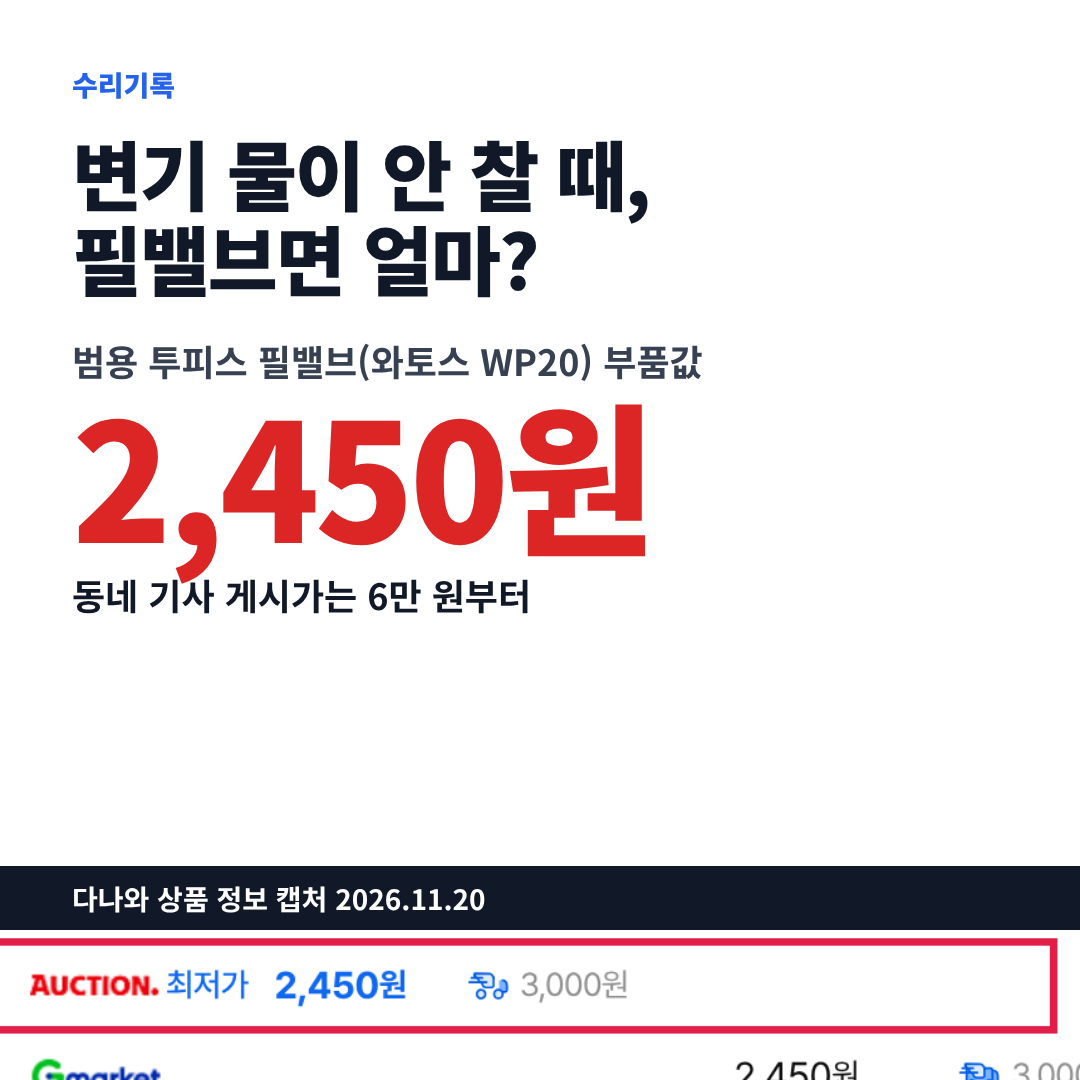
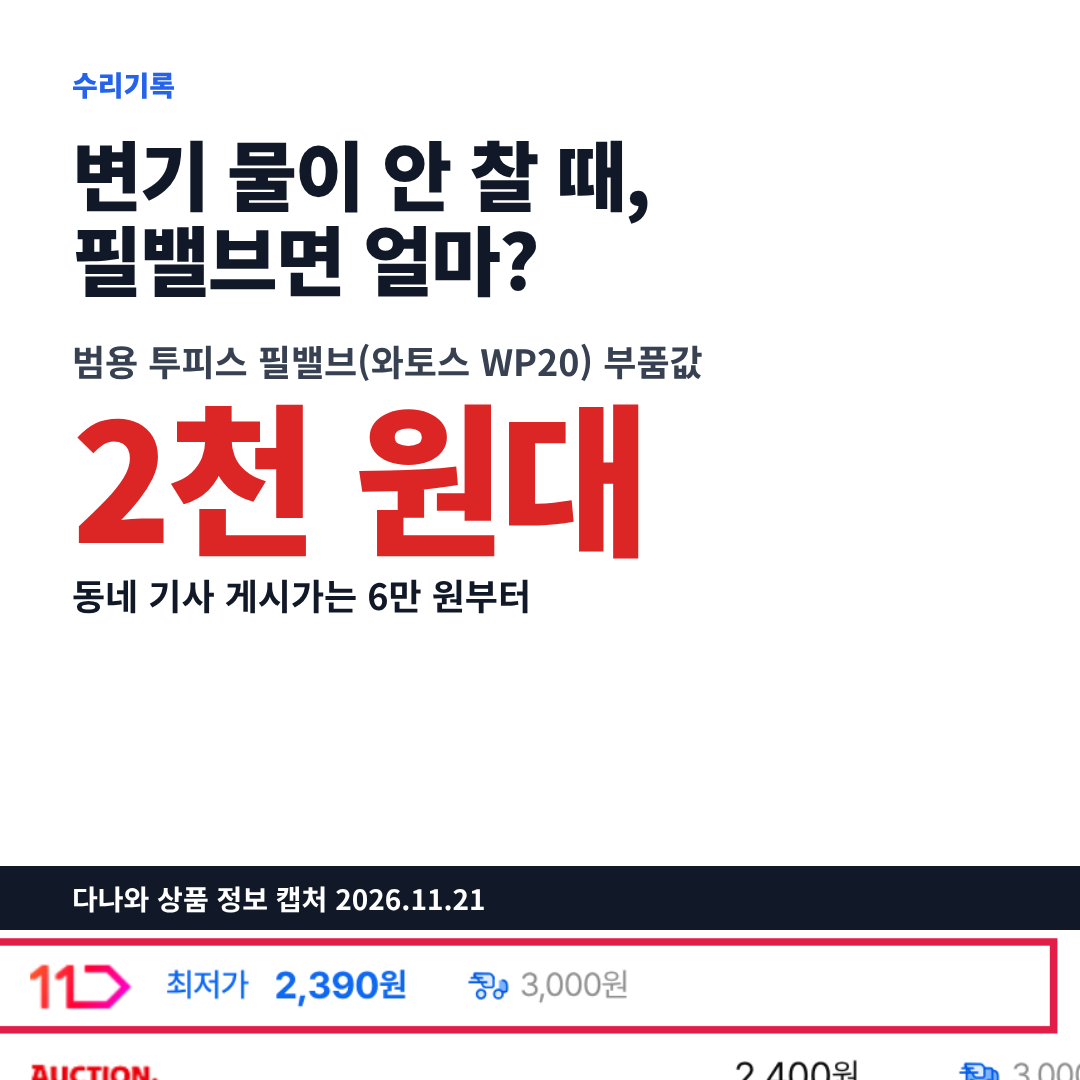
blog 05: WP20 price 2,390원 (title shows 2천 원대), KCA case capture, rows re-verified
Claude-Session: https://claude.ai/code/session_01S8aYJMqtEgMRbXyeMmbqGH

diff --git a/docs/blog/naver/05-toilet-fill-valve.md b/docs/blog/naver/05-toilet-fill-valve.md
@@ -1,12 +1,12 @@
 ---
 slug: 2026-12-toilet-fill-valve
 kind: guide
-title: 변기 물이 안 차요? 필밸브면 직접 2,450원부터, 기사는 6만 원부터
+title: 변기 물이 안 차요? 필밸브면 직접 2천 원대부터, 기사는 6만 원부터
 demand: 투피스·원피스 양변기 물탱크에 물이 안 차거나 늦게 차는 집의 거주자가 단수·동파·앵글밸브 문제인지 필밸브(볼탑) 고장인지 가르고, 우리 집 변기 브랜드에 맞는 부품과 값, 직접 바꿀지 제조사 AS나 동네 기사를 부를지, 세입자라면 누가 내는지 판단하려고 '변기 물이 안 차요'나 '변기 필밸브 교체'를 검색할 때 이 글을 읽습니다.
 reader: 투피스·원피스 양변기 물탱크에 물이 안 차거나 늦게 차는 집의 거주자. 대림바스·계림·이누스·아메리칸스탠다드·한샘 변기를 쓰는 아파트·빌라·원룸의 소유자와 월세·전세 세입자 모두
 need: 원인이 단수·동파·앵글밸브인지 필밸브인지 가르고, 브랜드별로 맞는 부품과 값, 직접 교체와 제조사 AS·동네 기사 중 무엇이 나은지, 집주인 부담 여부를 판단
 urgency: 높음 — 물이 안 차면 변기를 쓸 수 없고 12월부터 동파가 늘어남(서울 2025~26 겨울 수도계량기 동파 2,754건, 서울시 2026-11-15). 반대로 물이 계속 차면 수도요금이 오름
-scale: 네이버 월간 검색량(PC/모바일, 2026-11-20): 변기물이안차요 470/5,920, 변기필밸브 770/4,170, 변기수리 290/2,610, 변기필밸브교체 260/1,750, 변기물소리 40/870, 변기물안참 50/540, 변기볼탑 160/530, 대림변기필밸브 40/330, 변기물이계속차요 30/300, 변기물이늦게차요 20/250, 변기필밸브교체비용 30/230, 변기물탱크물이안차요 10/200 · 묶음어 변기부속품 1,710/11,000 · 집수리 검색어 23개 중 '변기물이안차요' 5위(docs/research/data/volumes/2026-12-toilet-fill-valve_2026-11-20.json) · 다나와 필밸브 리뷰 수: 와토스 WP20 2,555건, WP21 669건, 대림바스 투피스 볼탑 289건(2026-11-20) · 이누스 고객센터 '양변기 모델명은 어떻게 확인하나요' 조회 3,679회(2026-11-20, 조회할 때마다 늘어나 본문에는 쓰지 않음), '물탱크에 물이 채워지지 않는 경우' 조회 1,918회(2026-11-20)
+scale: 네이버 월간 검색량(PC/모바일, 2026-11-20): 변기물이안차요 470/5,920, 변기필밸브 770/4,170, 변기수리 290/2,610, 변기필밸브교체 260/1,750, 변기물소리 40/870, 변기물안참 50/540, 변기볼탑 160/530, 대림변기필밸브 40/330, 변기물이계속차요 30/300, 변기물이늦게차요 20/250, 변기필밸브교체비용 30/230, 변기물탱크물이안차요 10/200 · 묶음어 변기부속품 1,710/11,000 · 집수리 검색어 23개 중 '변기물이안차요' 5위(docs/research/data/volumes/2026-12-toilet-fill-valve_2026-11-20.json) · 다나와 필밸브 리뷰 수: 와토스 WP20 2,556건, WP21 669건, 대림바스 투피스 볼탑 289건(2026-11-20) · 이누스 고객센터 '양변기 모델명은 어떻게 확인하나요' 조회 3,679회(2026-11-20, 조회할 때마다 늘어나 본문에는 쓰지 않음), '물탱크에 물이 채워지지 않는 경우' 조회 1,918회(2026-11-20)
 queries: 변기 물이 안 차요, 변기 물탱크 물이 안 차요, 변기 물이 늦게 차요, 변기 필밸브, 변기 필밸브 교체, 변기 필밸브 교체 비용, 변기 볼탑, 대림 변기 필밸브, 변기 수리, 변기 물이 계속 차요, 변기 물소리, 필밸브 교체 공구, 변기 수리 집주인
 tags: 변기물이안차요, 변기필밸브, 변기필밸브교체, 변기수리, 변기물소리, 변기볼탑, 변기물안참, 대림변기필밸브, 변기물이계속차요, 변기필밸브교체비용
 tier: yellow
@@ -25,127 +25,129 @@ claims:
   - 2,010회 | 직접:네이버 검색광고 키워드 도구 조회 2026-11-20 | 2026-11-20 | '변기필밸브교체' 월간 검색량 PC 260 + 모바일 1,750 |
   - 23개 | 직접:네이버 검색광고 키워드 도구 조회 2026-11-20 | 2026-11-20 | 차트에 넣은 집수리 검색어 수(수전·트랩·팝업·환풍기·조명·변기 등) |
   - 3배 | 직접:네이버 검색광고 키워드 도구 조회 2026-11-20 | 2026-11-20 | 6,390÷2,010=3.2(수리기록 계산) |
-  - 2,450원 | https://prod.danawa.com/info/?pcode=2276464 | 2026-11-20 | 와토스코리아 무소음 필밸브 WP20(투피스 범용) 다나와 최저가, 배송비 별도 캡처:wp20-price | 최저가2,450원
-  - 4.6점 / 2,555 | https://prod.danawa.com/info/?pcode=2276464 | 2026-11-20 | 와토스 WP20 쇼핑몰 상품리뷰 평점·수 | 4.6점 (2,555)
-  - 리뷰: 늦게 차서 교체 | https://prod.danawa.com/info/?pcode=2276464 | 2026-11-20 | 사례: 다나와 쇼핑몰 리뷰(와토스 WP20, 2024-09-04 작성) | 물이 늦게 차올라서 밸브를 교체하게 되었습니다
-  - 리뷰: 공구 하나 | https://prod.danawa.com/info/?pcode=2276464 | 2026-11-20 | 다나와 쇼핑몰 리뷰(와토스 WP20, 2025-11-05 작성) | 몽키스패너 하나면 해결
-  - 리뷰: 비철 조임 | https://prod.danawa.com/info/?pcode=2276464 | 2026-11-20 | 다나와 쇼핑몰 리뷰(와토스 WP20, 2026-01-01 작성) | 비철이라 지나친 조립력은 파손의 원인이 될 수 있으니
-  - 1분 30초 | https://prod.danawa.com/info/?pcode=2276464 | 2026-11-20 | 다나와 쇼핑몰 리뷰(와토스 WP20, 2024-11-20 작성): 세게 조인 뒤 물 차는 시간이 늘었다가 다시 적당히 조여 해결 | 1분 30초 정도로 오래 걸림
-  - 7,460원 | https://prod.danawa.com/info/?pcode=42758777 | 2026-11-20 | 대림바스 투피스 양변기 볼탑 필밸브 다나와 최저가(17몰), 배송비 별도 | 대림바스 투피스 양변기 볼탑 필밸브
+  - 2,390원 | https://prod.danawa.com/info/?pcode=2276464 | 2026-11-21 | 와토스코리아 무소음 필밸브 WP20(투피스 범용) 다나와 최저가, 배송비 별도(2026-11-20 2,450원 → 11-21 2,390원으로 바뀜) 캡처:wp20-price | 최저가2,390원
+  - 2천 원대 | https://prod.danawa.com/info/?pcode=2276464 | 2026-11-21 | 계산: 제목·첫 문단·썸네일의 묶음 표기. 다나와 최저가가 하루에도 바뀌어(2,450→2,400→2,390원) 천 원 단위로 묶음 |
+  - 4.6점 / 2,556 | https://prod.danawa.com/info/?pcode=2276464 | 2026-11-21 | 와토스 WP20 쇼핑몰 상품리뷰 평점·수 | 4.6점 (2,556)
+  - 리뷰: 늦게 차서 교체 | https://prod.danawa.com/info/?pcode=2276464 | 2026-11-21 | 사례: 다나와 쇼핑몰 리뷰(와토스 WP20, 2024-09-04 작성) | 물이 늦게 차올라서 밸브를 교체하게 되었습니다
+  - 리뷰: 공구 하나 | https://prod.danawa.com/info/?pcode=2276464 | 2026-11-21 | 다나와 쇼핑몰 리뷰(와토스 WP20, 2025-11-05 작성) | 몽키스패너 하나면 해결
+  - 리뷰: 비철 조임 | https://prod.danawa.com/info/?pcode=2276464 | 2026-11-21 | 다나와 쇼핑몰 리뷰(와토스 WP20, 2026-01-01 작성) | 비철이라 지나친 조립력은 파손의 원인이 될 수 있으니
+  - 1분 30초 | https://prod.danawa.com/info/?pcode=2276464 | 2026-11-21 | 다나와 쇼핑몰 리뷰(와토스 WP20, 2024-11-20 작성): 세게 조인 뒤 물 차는 시간이 늘었다가 다시 적당히 조여 해결 | 1분 30초 정도로 오래 걸림
+  - 7,460원 | https://prod.danawa.com/info/?pcode=42758777 | 2026-11-21 | 대림바스 투피스 양변기 볼탑 필밸브 다나와 최저가(17몰), 배송비 별도 | 대림바스 투피스 양변기 볼탑 필밸브
   - 4.6점 / 289 | https://prod.danawa.com/info/?pcode=42758777 | 2026-11-20 | 대림바스 투피스 볼탑 쇼핑몰 상품리뷰 평점·수 | 4.6점 (289)
   - 리뷰: 고무 패킹 구멍 | https://prod.danawa.com/info/?pcode=42758777 | 2026-11-20 | 사례: 다나와 쇼핑몰 리뷰(대림바스 투피스 볼탑, 2025-02-15 작성) | 변기 물이 느리게 차올라서 뜯어보니 내부 고무 빠킹이 달아서 구멍이 났습니다
   - 리뷰: 큰 너트 공구 | https://prod.danawa.com/info/?pcode=42758777 | 2026-11-20 | 다나와 쇼핑몰 리뷰(대림바스 투피스 볼탑, 2025-12-17 작성) | 큰 너트에 맞는 공구가 필요하네요
   - 리뷰: 교체해도 같은 증상 | https://prod.danawa.com/info/?pcode=42758777 | 2026-11-20 | 다나와 쇼핑몰 리뷰(대림바스 투피스 볼탑, 2024-10-21 작성) | 교체해도 동일증상이라
-  - 17,400원 | https://prod.danawa.com/info/?pcode=101136749 | 2026-11-20 | 대림바스 원피스 CC-213·214용 볼탑 필밸브 판매가(판매자 표기, 가격갱신일 2026.11.15). 같은 묶음의 최저가 14,610원은 플러시밸브 상품이라 쓰지 않음 | 대림원피스양변기볼탑 CC-213 214 필밸브 볼탭 부레
-  - 7,040원 | https://prod.danawa.com/info/?pcode=42763076 | 2026-11-20 | 와토스 WP250 키높이조절 필밸브 다나와 최저가 | WP250
-  - 19,920원 | https://prod.danawa.com/info/?pcode=101105786 | 2026-11-20 | 와토스 WP21 무소음 원피스 필밸브 다나와 최저가 | WP21
-  - 4.5점 / 669 | https://prod.danawa.com/info/?pcode=101105786 | 2026-11-20 | 와토스 WP21 쇼핑몰 상품리뷰 평점·수 | 4.5점 (669)
-  - 32,620원 | https://prod.danawa.com/info/?pcode=42776405 | 2026-11-20 | 이누스바스 원피스 볼탑 필밸브 분사펌프 다나와 최저가(가격갱신일 2026.04.24) | 이누스
-  - 33,750원 | https://search.danawa.com/?query=%EA%B3%84%EB%A6%BC+%ED%95%84%EB%B0%B8%EB%B8%8C | 2026-11-20 | 계림요업 원피스 필밸브 다나와 최저가(5몰) | 계림요업 양변기 볼탐 부품 필밸브
-  - 32,500원 | https://search.danawa.com/?query=%EC%95%84%EB%A9%94%EB%A6%AC%EC%B9%B8%EC%8A%A4%ED%83%A0%EB%8B%A4%EB%93%9C+%ED%95%84%EB%B0%B8%EB%B8%8C | 2026-11-20 | 릭실코리아 아메리칸스탠다드 양변기 필밸브(다나와 검색 상품) | C603700Z-0GAKZZ00W
-  - 15,300원 | https://search.danawa.com/?query=%ED%95%9C%EC%83%98+%EC%96%91%EB%B3%80%EA%B8%B0+%EB%B6%80%EC%86%8D | 2026-11-20 | 한샘 양변기 부속품 WTG300 다나와 최저가(4몰, 필밸브 단품인지 세트인지 미표기) | 한샘 양변기 부속품 WTG300
-  - 3,000원 | https://www.daisomall.co.kr/pd/pdr/SCR_PDR_0001?pdNo=57411 | 2026-11-20 | 다이소몰 멍키스패너 200 판매가 | 멍키스패너 200
-  - 10,460원 | https://prod.danawa.com/info/?pcode=42758777 | 2026-11-20 | 계산: 7,460+3,000(대림바스 투피스 볼탑 + 다이소 멍키스패너 200) |
-  - 61.8% | https://economist.co.kr/article/view/ecn202605040011 | 2026-11-20 | 대림바스 2025년 국내 위생도기 점유율(대한도자기·타일공업협동조합 출하현황, 이코노미스트 2026-05-11) | 대림바스는 2025년 기준 국내 위생도기 시장에서 점유율 61.8%를 기록했다
-  - 25.3% | https://economist.co.kr/article/view/ecn202605040011 | 2026-11-20 | 2위 계림요업 2025년 점유율 | 반면 2위 계림요업은 25.3%의 점유율에 그쳤다
-  - 출하현황 자료명 | https://economist.co.kr/article/view/ecn202605040011 | 2026-11-20 | 점유율 근거 자료 | 국내 위생도기 제조업체 연간 출하현황
-  - 다나와 인기상품순 정의 | https://search.danawa.com/?query=%EC%96%91%EB%B3%80%EA%B8%B0 | 2026-11-20 | 판매량만이 아닌 점수 순위 | 조회수, 판매량, 판매금액, 연관 콘텐츠 수 등을 점수화하여
-  - 30개 / 15개 / 4개 / 2개 | https://prod.danawa.com/list/?cate=17316293 | 2026-11-20 | 계산: 다나와 양변기 인기순 상위 30개 중 대림바스 15, 아메리칸스탠다드 4, 이누스(아이에스동서) 2, 한샘 1(2026-11-20 22:13 화면, 순위는 매일 바뀜) | 아메리칸스탠다드 웨이브 S 스퀘어 투피스 양변기
+  - 17,400원 | https://prod.danawa.com/info/?pcode=101136749 | 2026-11-21 | 대림바스 원피스 CC-213·214용 볼탑 필밸브 판매가(판매자 표기, 가격갱신일 2026.11.15). 같은 묶음의 최저가 14,610원은 플러시밸브 상품이라 쓰지 않음 | 대림원피스양변기볼탑 CC-213 214 필밸브 볼탭 부레
+  - 7,040원 | https://prod.danawa.com/info/?pcode=42763076 | 2026-11-21 | 와토스 WP250 키높이조절 필밸브 다나와 최저가 | WP250
+  - 19,920원 | https://prod.danawa.com/info/?pcode=101105786 | 2026-11-21 | 와토스 WP21 무소음 원피스 필밸브 다나와 최저가 | WP21
+  - 4.5점 / 669 | https://prod.danawa.com/info/?pcode=101105786 | 2026-11-21 | 와토스 WP21 쇼핑몰 상품리뷰 평점·수 | 4.5점 (669)
+  - 32,620원 | https://prod.danawa.com/info/?pcode=42776405 | 2026-11-21 | 이누스바스 원피스 볼탑 필밸브 분사펌프 다나와 최저가(가격갱신일 2026.04.24) | 이누스
+  - 33,750원 | https://search.danawa.com/?query=%EA%B3%84%EB%A6%BC+%ED%95%84%EB%B0%B8%EB%B8%8C | 2026-11-21 | 계림요업 원피스 필밸브 다나와 최저가(5몰) | 계림요업 양변기 볼탐 부품 필밸브
+  - 32,500원 | https://search.danawa.com/?query=%EC%95%84%EB%A9%94%EB%A6%AC%EC%B9%B8%EC%8A%A4%ED%83%A0%EB%8B%A4%EB%93%9C+%ED%95%84%EB%B0%B8%EB%B8%8C | 2026-11-21 | 릭실코리아 아메리칸스탠다드 양변기 필밸브(다나와 검색 상품) | C603700Z-0GAKZZ00W
+  - 15,300원 | https://search.danawa.com/?query=%ED%95%9C%EC%83%98+%EC%96%91%EB%B3%80%EA%B8%B0+%EB%B6%80%EC%86%8D | 2026-11-21 | 한샘 양변기 부속품 WTG300 다나와 최저가(4몰, 필밸브 단품인지 세트인지 미표기) | 한샘 양변기 부속품 WTG300
+  - 3,000원 | https://www.daisomall.co.kr/pd/pdr/SCR_PDR_0001?pdNo=57411 | 2026-11-21 | 다이소몰 멍키스패너 200 판매가 | 멍키스패너 200
+  - 10,460원 | https://prod.danawa.com/info/?pcode=42758777 | 2026-11-21 | 계산: 7,460+3,000(대림바스 투피스 볼탑 + 다이소 멍키스패너 200) |
+  - 61.8% | https://economist.co.kr/article/view/ecn202605040011 | 2026-11-21 | 대림바스 2025년 국내 위생도기 점유율(대한도자기·타일공업협동조합 출하현황, 이코노미스트 2026-05-11) | 대림바스는 2025년 기준 국내 위생도기 시장에서 점유율 61.8%를 기록했다
+  - 25.3% | https://economist.co.kr/article/view/ecn202605040011 | 2026-11-21 | 2위 계림요업 2025년 점유율 | 반면 2위 계림요업은 25.3%의 점유율에 그쳤다
+  - 출하현황 자료명 | https://economist.co.kr/article/view/ecn202605040011 | 2026-11-21 | 점유율 근거 자료 | 국내 위생도기 제조업체 연간 출하현황
+  - 다나와 인기상품순 정의 | https://search.danawa.com/?query=%EC%96%91%EB%B3%80%EA%B8%B0 | 2026-11-21 | 판매량만이 아닌 점수 순위 | 조회수, 판매량, 판매금액, 연관 콘텐츠 수 등을 점수화하여
+  - 30개 / 15개 / 4개 / 2개 | https://prod.danawa.com/list/?cate=17316293 | 2026-11-21 | 계산: 다나와 양변기 인기순 상위 30개 중 대림바스 15, 아메리칸스탠다드 4, 이누스(아이에스동서) 2, 한샘 1(2026-11-20 22:13 화면, 순위는 매일 바뀜) | 아메리칸스탠다드 웨이브 S 스퀘어 투피스 양변기
   - 10개 업체 14개 제품 | https://www.kca.go.kr/home/board/download.do?menukey=4002&fno=10041292&bid=00000013&did=1003613995 | 2026-11-21 | 사례: 한국소비자원 보도자료 '절수형 변기, 제품별로 세척성능·절수효과 등에 차이 있어'(2024-01-25) 시험 대상 | 10개 업체의 14개 제품에 대해
   - 선호도 높은 제품 | https://www.kca.go.kr/home/board/download.do?menukey=4002&fno=10041292&bid=00000013&did=1003613995 | 2026-11-21 | 같은 보도자료, 대상 선정 기준 | 소비자 선호도가 높은 절수형 변기
   - 표시사항 누락 | https://www.kca.go.kr/home/board/download.do?menukey=4002&fno=10041292&bid=00000013&did=1003613995 | 2026-11-21 | 같은 보도자료, 변기시트 모델명·재질·제조자명 표시 | 모든 제품이 표시사항의 일부 또는 전체를 누락해 개선이 필요했다
-  - 50% | https://www.hankyung.com/article/2025082908871 | 2026-11-20 | 와토스코리아 국내 위생도기 부품 시장 점유(한국경제 2025-08-29) | 국내 위생도기 부품 시장의 50% 정도를 차지하고 있는 와토스코리아
-  - 20~30% / 30% | https://www.hankyung.com/article/2025082908871 | 2026-11-20 | 중국산 부품 잠식과 가격 차이(업계 추산) | 품질 수준은 떨어지지만 가격은 30% 이상 저렴한 편
-  - 1588-1952 | https://www.daelimbath.com/download/as_guide | 2026-11-20 | 대림바스 위생도기 서비스센터 | 위생도기 1588-1952
-  - 1년 | https://www.daelimbath.com/download/as_guide | 2026-11-20 | 대림바스 설치 후 무상 AS 기간(시공·제품 하자) | 설치 후 1년 이내에 시공 하자, 제품 하자인 경우 무상 AS 가능합니다
-  - 유상 AS 비용 항목 | https://www.daelimbath.com/download/as_guide | 2026-11-20 | 고객 과실이면 유상, 금액은 공개하지 않음 | 출장비, 서비스 실비가 청구됩니다
-  - 대림바스 부품몰 | https://www.daelimbath.com/partsmall | 2026-11-20 | 직영 부품 구매 전용 쇼핑몰, 수리와 별도 | 부품 구매와 제품 점검·수리 서비스는 별도로 운영됩니다
-  - 1566-8625 | https://www.kelim.net/cs/after-service | 2026-11-20 | 계림 고객센터 | Tel 1566-8625
-  - 계림 이중 출장비 | https://www.kelim.net/cs/after-service | 2026-11-20 | 모델명을 잘못 적었을 때 | 이중 출장비 발생
-  - 계림 부품 구입처 | https://www.kelim.net/cs/faq | 2026-11-20 | 대리점·판매점 구입, 재고 확인 | 부속은 재고가 없는 경우도 있사오니
-  - 계림 물 안 참 FAQ | https://www.kelim.net/cs/faq?type=TOILET_BOWL&page=2 | 2026-11-20 | 질문 제목 캡처:kelim-faq | 양변기 탱크에 물이 채워지지 않아요
-  - 계림 부구 간섭 | https://www.kelim.net/cs/faq?type=TOILET_BOWL&page=2 | 2026-11-20 | 점검 순서 3번째 | 필밸브 부구가 다른곳에 닿았는지 확인하십시요
-  - 계림 로우탱크 | https://www.kelim.net/cs/faq?type=TOILET_BOWL&page=2 | 2026-11-20 | 원피스(로우탱크) 제트펌프 부속 | 제트펌프 전환 부구 패킹의 노후로 인한 변형 발생 및 작동불량
-  - 1588-8613 | https://cs.inusbath.com/ISDS/view/view.do?pageCd=resGuid | 2026-11-20 | 이누스 고객센터 | TEL : 1588-8613
-  - 1년 | https://cs.inusbath.com/ISDS/view/view.do?pageCd=resGuid | 2026-11-20 | 이누스 품질보증기간 | 제품의 인도(설치)날로부터 1년 이내의 기간을 말합니다
-  - 이누스 출장비 | https://cs.inusbath.com/ISDS/view/view.do?pageCd=resGuid | 2026-11-20 | 금액 미공개 | 지역별로 차등 청구됩니다
-  - 이누스 모델명 위치1 | https://cs.inusbath.com/ISDS/bbt/bbt00004V.do?pageCd=BBM00007&boardSeq=4046&boardMstCd=BBM00007 | 2026-11-20 | 제조사 안내 | 레버 반대편의 물탱크와 양변기 하부 확인
-  - 이누스 모델명 위치2 | https://cs.inusbath.com/ISDS/bbt/bbt00004V.do?pageCd=BBM00007&boardSeq=4046&boardMstCd=BBM00007 | 2026-11-20 | 제조사 안내 | 탱크뚜껑을 열어 뚜껑내부 확인
-  - 이누스 모델명 위치3 | https://cs.inusbath.com/ISDS/bbt/bbt00004V.do?pageCd=BBM00007&boardSeq=4046&boardMstCd=BBM00007 | 2026-11-20 | 제조사 안내 | 하부 겉면 부착 스티커로 확인
-  - 1566-3787 | https://cs.inusbath.com/ISDS/bbt/bbt00004V.do?pageCd=BBM00007&boardSeq=3939&boardMstCd=BBM00007 | 2026-11-20 | 이누스 부품 판매업체 | 푸른물 : 1566-3787
-  - 이누스 물 안 참 1단계 | https://cs.inusbath.com/ISDS/bbt/bbt00004V.do?pageCd=BBM00007&boardSeq=3934&boardMstCd=BBM00007 | 2026-11-20 | 제조사 간단조치 | 먼저 앵글밸브가 잠겨있는지 확인해주시기 바랍니다
-  - 이누스 물 안 참 2단계 | https://cs.inusbath.com/ISDS/bbt/bbt00004V.do?pageCd=BBM00007&boardSeq=3934&boardMstCd=BBM00007 | 2026-11-20 | 제조사 간단조치 | 잔수호스가 플러시 밸브 몸체에서 탈거되어 있는지
-  - 1588-0900 | https://store.hanssem.com/goods/319412 | 2026-11-20 | 한샘 A/S·추가부품 문의 | A/S 신청 및 추가부품 문의(1588-0900)
-  - 1년 | https://as.hanssem.com/reserve/ServiceChargeInfomation/view.as | 2026-11-20 | 한샘 무상 품질 보증기간 | 무상 품질 보증기간 : 1년
-  - 50,000원 | https://as.hanssem.com/reserve/ServiceChargeInfomation/view.as | 2026-11-20 | 한샘 방문점검비 평일/주간 | •평일/주간: 50,000원
-  - 60,000원 | https://as.hanssem.com/reserve/ServiceChargeInfomation/view.as | 2026-11-20 | 한샘 방문점검비 휴일/야간 | •휴일/야간: 60,000원
-  - 한샘 자재비 | https://as.hanssem.com/reserve/ServiceChargeInfomation/view.as | 2026-11-20 | 부품값 기준 | 한샘 정찰제 부품 단가로 적용됩니다
-  - 070-4067-5455 | https://www.kohler.co.kr/contact-us | 2026-11-20 | 콜러 코리아 A/S | A/S : 070-4067-5455
-  - 6만 원 | https://daangn.com/kr/local-profile/%ED%99%88%ED%8B%80%EB%9F%AC-ro2wnxe1u6f5/ | 2026-11-20 | 당근 동네업체 게시가(경기 안산 홈틀러, 업체 직접 등록) | 투피스 양변기 부속품 전체 교체 6만원부터
-  - 70,000원 / 30,000원 | https://daangn.com/kr/local-profile/%ED%99%88%EC%95%A4%EC%A7%91%EC%88%98%EB%A6%AC-55afv8nnkdi1/ | 2026-11-20 | 당근 동네업체 게시가(서울 강남 홈앤집수리): 투피스 부속교체 70,000원~, 기본 출장비 30,000원~ 별도 | 기본출장비+항목별수리비로 청구 됩니다.
-  - 와토스 자재 | https://daangn.com/kr/local-profile/%ED%99%88%EC%95%A4%EC%A7%91%EC%88%98%EB%A6%AC-55afv8nnkdi1/ | 2026-11-20 | 같은 업체 항목 설명 | 와토스/자재비 포함
-  - 100,000원 | https://daangn.com/kr/local-profile/%ED%99%88%EC%95%A4%EC%A7%91%EC%88%98%EB%A6%AC-55afv8nnkdi1/ | 2026-11-20 | 계산: 70,000+30,000(투피스 부속교체 + 기본 출장비, 게시 시작가) |
-  - 당근 업체 정보 책임 | https://daangn.com/kr/local-profile/%ED%99%88%EC%95%A4%EC%A7%91%EC%88%98%EB%A6%AC-55afv8nnkdi1/ | 2026-11-20 | 당근 게시 정보의 성격 | 업체 관리자가 직접 등록한 것으로
-  - 덜 열린 밸브 | https://www.korky.com/toilet-repair-help/how-to-fix-a-slow-filling-toilet | 2026-11-20 | Korky(Lavelle Industries) 느린 급수 안내 | A partially closed valve or restricted supply line can limit water flow into the tank.
-  - 꺾인 호스 | https://www.korky.com/toilet-repair-help/how-to-fix-a-slow-filling-toilet | 2026-11-20 | 같은 안내 | Straighten the line if it is kinked.
-  - 양동이 시험 | https://www.korky.com/toilet-repair-help/how-to-fix-a-slow-filling-toilet | 2026-11-20 | Korky(Lavelle Industries) 느린 급수 안내 | redirect the line into a bucket
-  - 양동이 시험 판정 | https://www.korky.com/toilet-repair-help/how-to-fix-a-slow-filling-toilet | 2026-11-20 | 같은 안내 | There may be a blockage in the line or your incoming water supply if little or no water flows into the bucket.
-  - 이물질로 늦게 참 | https://faq.americanstandard-us.com/article/21 | 2026-11-20 | American Standard 미국 FAQ | Sometimes debris can get stuck inside the fill valve causing it to refill your tank slowly.
-  - 거름망 막힘 신호 | https://www.totousa.com/filemanager_uploads/product_assets/OwnersManual/0GU206_CST436_CST448.pdf | 2026-11-20 | TOTO 미국 설명서 0GU206-5(Rev 6/22) | An indication that the strainer requires service can be seen in a delayed fill cycle
-  - 밸브 완전 개방 | https://resources.kohler.com/webassets/kpna/catalog/pdf/en/1175975-5.pdf | 2026-11-20 | Kohler 문제 해결 'Toilet Tank Takes Excessive Time to Fill' | A. Fully open the water supply shut-off valve.
-  - 공급 쪽 막힘 | https://res.cloudinary.com/dzhpkjoqj/Fluidmaster/FLUIDMINST00101.pdf | 2026-11-20 | Fluidmaster 400A 설명서(PART# 4-743 Rev. 6) 문제 해결 | Partial blockage may be at shut off valve or in water supply line
-  - 이물질 확인 | https://res.cloudinary.com/dzhpkjoqj/Fluidmaster/FLUIDMINST00101.pdf | 2026-11-20 | 같은 항목 | Remove top cap and check for debris.
-  - 씰 교체 | https://res.cloudinary.com/dzhpkjoqj/Fluidmaster/FLUIDMINST00101.pdf | 2026-11-20 | 같은 항목 | replace seal with a genuine Fluidmaster 242
-  - 탱크 수위 낮음 | https://res.cloudinary.com/dzhpkjoqj/Fluidmaster/FLUIDMINST00101.pdf | 2026-11-20 | 같은 설명서 '물 높이가 낮을 때' | Water level in tank may be too low.
-  - 수위 올리기 | https://res.cloudinary.com/dzhpkjoqj/Fluidmaster/FLUIDMINST00101.pdf | 2026-11-20 | 같은 설명서 5단계 | turn adjustment screw clockwise to raise
-  - 필밸브가 저절로 켜졌다 꺼짐 | https://res.cloudinary.com/dzhpkjoqj/Fluidmaster/FLUIDMINST00101.pdf | 2026-11-20 | 같은 설명서 문제 해결 | This indicates the tank is losing water.
-  - 고무마개·플러시밸브 점검 | https://res.cloudinary.com/dzhpkjoqj/Fluidmaster/FLUIDMINST00101.pdf | 2026-11-20 | 같은 설명서 문제 해결 | Clean flapper and drain seat. If leak continues, change flapper or flush valve.
-  - 수위는 오버플로관 아래 | https://res.cloudinary.com/dzhpkjoqj/Fluidmaster/FLUIDMINST00101.pdf | 2026-11-20 | 같은 설명서 6단계 | WATER LEVEL (C) is set below top of Overflow Pipe
-  - 남은 물 빼기 | https://res.cloudinary.com/dzhpkjoqj/Fluidmaster/FLUIDMINST00101.pdf | 2026-11-20 | 같은 설명서 준비 단계 | Flush toilet and remove excess water from tank with sponge
-  - 손으로만 조이기 | https://res.cloudinary.com/dzhpkjoqj/Fluidmaster/FLUIDMINST00101.pdf | 2026-11-20 | 같은 설명서 3단계 | Hand-tighten only. DO NOT OVER TIGHTEN.
-  - 과도한 조임 경고 | https://res.cloudinary.com/dzhpkjoqj/Fluidmaster/FLUIDMINST00101.pdf | 2026-11-20 | 같은 설명서 3단계 | Over tightening may crack the fill valve or tank
-  - 부자가 닿지 않게 | https://res.cloudinary.com/dzhpkjoqj/Fluidmaster/FLUIDMINST00101.pdf | 2026-11-20 | 같은 설명서 3단계 | Make sure the float cup does not touch the tank walls
-  - 연결부 누수 시 너트 | https://res.cloudinary.com/dzhpkjoqj/Fluidmaster/FLUIDMINST00101.pdf | 2026-11-20 | 같은 설명서 4단계 | turn nut just enough to stop leaking
-  - 수위 낮추기 | https://res.cloudinary.com/dzhpkjoqj/Fluidmaster/FLUIDMINST00101.pdf | 2026-11-20 | 같은 설명서 5단계 | counter clockwise to lower water level
-  - C.L. 표시 1인치 | https://res.cloudinary.com/dzhpkjoqj/Fluidmaster/FLUIDMINST00101.pdf | 2026-11-20 | 같은 설명서 2단계(높이 맞추기) | MUST be positioned 1” above top of overflow pipe
+  - 50% | https://www.hankyung.com/article/2025082908871 | 2026-11-21 | 와토스코리아 국내 위생도기 부품 시장 점유(한국경제 2025-08-29) | 국내 위생도기 부품 시장의 50% 정도를 차지하고 있는 와토스코리아
+  - 20~30% / 30% | https://www.hankyung.com/article/2025082908871 | 2026-11-21 | 중국산 부품 잠식과 가격 차이(업계 추산) | 품질 수준은 떨어지지만 가격은 30% 이상 저렴한 편
+  - 1588-1952 | https://www.daelimbath.com/download/as_guide | 2026-11-21 | 대림바스 위생도기 서비스센터 | 위생도기 1588-1952
+  - 1년 | https://www.daelimbath.com/download/as_guide | 2026-11-21 | 대림바스 설치 후 무상 AS 기간(시공·제품 하자) | 설치 후 1년 이내에 시공 하자, 제품 하자인 경우 무상 AS 가능합니다
+  - 유상 AS 비용 항목 | https://www.daelimbath.com/download/as_guide | 2026-11-21 | 고객 과실이면 유상, 금액은 공개하지 않음 | 출장비, 서비스 실비가 청구됩니다
+  - 대림바스 부품몰 | https://www.daelimbath.com/partsmall | 2026-11-21 | 직영 부품 구매 전용 쇼핑몰, 수리와 별도 | 부품 구매와 제품 점검·수리 서비스는 별도로 운영됩니다
+  - 1566-8625 | https://www.kelim.net/cs/after-service | 2026-11-21 | 계림 고객센터 | Tel 1566-8625
+  - 계림 이중 출장비 | https://www.kelim.net/cs/after-service | 2026-11-21 | 모델명을 잘못 적었을 때 | 이중 출장비 발생
+  - 계림 부품 구입처 | https://www.kelim.net/cs/faq | 2026-11-21 | 대리점·판매점 구입, 재고 확인 | 부속은 재고가 없는 경우도 있사오니
+  - 계림 물 안 참 FAQ | https://www.kelim.net/cs/faq?type=TOILET_BOWL&page=2 | 2026-11-21 | 질문 제목 캡처:kelim-faq | 양변기 탱크에 물이 채워지지 않아요
+  - 계림 부구 간섭 | https://www.kelim.net/cs/faq?type=TOILET_BOWL&page=2 | 2026-11-21 | 점검 순서 3번째 | 필밸브 부구가 다른곳에 닿았는지 확인하십시요
+  - 계림 로우탱크 | https://www.kelim.net/cs/faq?type=TOILET_BOWL&page=2 | 2026-11-21 | 원피스(로우탱크) 제트펌프 부속 | 제트펌프 전환 부구 패킹의 노후로 인한 변형 발생 및 작동불량
+  - 1588-8613 | https://cs.inusbath.com/ISDS/view/view.do?pageCd=resGuid | 2026-11-21 | 이누스 고객센터 | TEL : 1588-8613
+  - 1년 | https://cs.inusbath.com/ISDS/view/view.do?pageCd=resGuid | 2026-11-21 | 이누스 품질보증기간 | 제품의 인도(설치)날로부터 1년 이내의 기간을 말합니다
+  - 이누스 출장비 | https://cs.inusbath.com/ISDS/view/view.do?pageCd=resGuid | 2026-11-21 | 금액 미공개 | 지역별로 차등 청구됩니다
+  - 이누스 모델명 위치1 | https://cs.inusbath.com/ISDS/bbt/bbt00004V.do?pageCd=BBM00007&boardSeq=4046&boardMstCd=BBM00007 | 2026-11-21 | 제조사 안내 | 레버 반대편의 물탱크와 양변기 하부 확인
+  - 이누스 모델명 위치2 | https://cs.inusbath.com/ISDS/bbt/bbt00004V.do?pageCd=BBM00007&boardSeq=4046&boardMstCd=BBM00007 | 2026-11-21 | 제조사 안내 | 탱크뚜껑을 열어 뚜껑내부 확인
+  - 이누스 모델명 위치3 | https://cs.inusbath.com/ISDS/bbt/bbt00004V.do?pageCd=BBM00007&boardSeq=4046&boardMstCd=BBM00007 | 2026-11-21 | 제조사 안내 | 하부 겉면 부착 스티커로 확인
+  - 1566-3787 | https://cs.inusbath.com/ISDS/bbt/bbt00004V.do?pageCd=BBM00007&boardSeq=3939&boardMstCd=BBM00007 | 2026-11-21 | 이누스 부품 판매업체 | 푸른물 : 1566-3787
+  - 이누스 물 안 참 1단계 | https://cs.inusbath.com/ISDS/bbt/bbt00004V.do?pageCd=BBM00007&boardSeq=3934&boardMstCd=BBM00007 | 2026-11-21 | 제조사 간단조치 | 먼저 앵글밸브가 잠겨있는지 확인해주시기 바랍니다
+  - 이누스 물 안 참 2단계 | https://cs.inusbath.com/ISDS/bbt/bbt00004V.do?pageCd=BBM00007&boardSeq=3934&boardMstCd=BBM00007 | 2026-11-21 | 제조사 간단조치 | 잔수호스가 플러시 밸브 몸체에서 탈거되어 있는지
+  - 1588-0900 | https://store.hanssem.com/goods/319412 | 2026-11-21 | 한샘 A/S·추가부품 문의 | A/S 신청 및 추가부품 문의(1588-0900)
+  - 1년 | https://as.hanssem.com/reserve/ServiceChargeInfomation/view.as | 2026-11-21 | 한샘 무상 품질 보증기간 | 무상 품질 보증기간 : 1년
+  - 50,000원 | https://as.hanssem.com/reserve/ServiceChargeInfomation/view.as | 2026-11-21 | 한샘 방문점검비 평일/주간 | •평일/주간: 50,000원
+  - 60,000원 | https://as.hanssem.com/reserve/ServiceChargeInfomation/view.as | 2026-11-21 | 한샘 방문점검비 휴일/야간 | •휴일/야간: 60,000원
+  - 한샘 자재비 | https://as.hanssem.com/reserve/ServiceChargeInfomation/view.as | 2026-11-21 | 부품값 기준 | 한샘 정찰제 부품 단가로 적용됩니다
+  - 070-4067-5455 | https://www.kohler.co.kr/contact-us | 2026-11-21 | 콜러 코리아 A/S | A/S : 070-4067-5455
+  - 6만 원 | https://daangn.com/kr/local-profile/%ED%99%88%ED%8B%80%EB%9F%AC-ro2wnxe1u6f5/ | 2026-11-21 | 당근 동네업체 게시가(경기 안산 홈틀러, 업체 직접 등록) | 투피스 양변기 부속품 전체 교체 6만원부터
+  - 70,000원 / 30,000원 | https://daangn.com/kr/local-profile/%ED%99%88%EC%95%A4%EC%A7%91%EC%88%98%EB%A6%AC-55afv8nnkdi1/ | 2026-11-21 | 당근 동네업체 게시가(서울 강남 홈앤집수리): 투피스 부속교체 70,000원~, 기본 출장비 30,000원~ 별도 | 기본출장비+항목별수리비로 청구 됩니다.
+  - 와토스 자재 | https://daangn.com/kr/local-profile/%ED%99%88%EC%95%A4%EC%A7%91%EC%88%98%EB%A6%AC-55afv8nnkdi1/ | 2026-11-21 | 같은 업체 항목 설명 | 와토스/자재비 포함
+  - 100,000원 | https://daangn.com/kr/local-profile/%ED%99%88%EC%95%A4%EC%A7%91%EC%88%98%EB%A6%AC-55afv8nnkdi1/ | 2026-11-21 | 계산: 70,000+30,000(투피스 부속교체 + 기본 출장비, 게시 시작가) |
+  - 당근 업체 정보 책임 | https://daangn.com/kr/local-profile/%ED%99%88%EC%95%A4%EC%A7%91%EC%88%98%EB%A6%AC-55afv8nnkdi1/ | 2026-11-21 | 당근 게시 정보의 성격 | 업체 관리자가 직접 등록한 것으로
+  - 덜 열린 밸브 | https://www.korky.com/toilet-repair-help/how-to-fix-a-slow-filling-toilet | 2026-11-21 | Korky(Lavelle Industries) 느린 급수 안내 | A partially closed valve or restricted supply line can limit water flow into the tank.
+  - 꺾인 호스 | https://www.korky.com/toilet-repair-help/how-to-fix-a-slow-filling-toilet | 2026-11-21 | 같은 안내 | Straighten the line if it is kinked.
+  - 양동이 시험 | https://www.korky.com/toilet-repair-help/how-to-fix-a-slow-filling-toilet | 2026-11-21 | Korky(Lavelle Industries) 느린 급수 안내 | redirect the line into a bucket
+  - 양동이 시험 판정 | https://www.korky.com/toilet-repair-help/how-to-fix-a-slow-filling-toilet | 2026-11-21 | 같은 안내 | There may be a blockage in the line or your incoming water supply if little or no water flows into the bucket.
+  - 이물질로 늦게 참 | https://faq.americanstandard-us.com/article/21 | 2026-11-21 | American Standard 미국 FAQ | Sometimes debris can get stuck inside the fill valve causing it to refill your tank slowly.
+  - 거름망 막힘 신호 | https://www.totousa.com/filemanager_uploads/product_assets/OwnersManual/0GU206_CST436_CST448.pdf | 2026-11-21 | TOTO 미국 설명서 0GU206-5(Rev 6/22) | An indication that the strainer requires service can be seen in a delayed fill cycle
+  - 밸브 완전 개방 | https://resources.kohler.com/webassets/kpna/catalog/pdf/en/1175975-5.pdf | 2026-11-21 | Kohler 문제 해결 'Toilet Tank Takes Excessive Time to Fill' | A. Fully open the water supply shut-off valve.
+  - 공급 쪽 막힘 | https://res.cloudinary.com/dzhpkjoqj/Fluidmaster/FLUIDMINST00101.pdf | 2026-11-21 | Fluidmaster 400A 설명서(PART# 4-743 Rev. 6) 문제 해결 | Partial blockage may be at shut off valve or in water supply line
+  - 이물질 확인 | https://res.cloudinary.com/dzhpkjoqj/Fluidmaster/FLUIDMINST00101.pdf | 2026-11-21 | 같은 항목 | Remove top cap and check for debris.
+  - 씰 교체 | https://res.cloudinary.com/dzhpkjoqj/Fluidmaster/FLUIDMINST00101.pdf | 2026-11-21 | 같은 항목 | replace seal with a genuine Fluidmaster 242
+  - 탱크 수위 낮음 | https://res.cloudinary.com/dzhpkjoqj/Fluidmaster/FLUIDMINST00101.pdf | 2026-11-21 | 같은 설명서 '물 높이가 낮을 때' | Water level in tank may be too low.
+  - 수위 올리기 | https://res.cloudinary.com/dzhpkjoqj/Fluidmaster/FLUIDMINST00101.pdf | 2026-11-21 | 같은 설명서 5단계 | turn adjustment screw clockwise to raise
+  - 필밸브가 저절로 켜졌다 꺼짐 | https://res.cloudinary.com/dzhpkjoqj/Fluidmaster/FLUIDMINST00101.pdf | 2026-11-21 | 같은 설명서 문제 해결 | This indicates the tank is losing water.
+  - 고무마개·플러시밸브 점검 | https://res.cloudinary.com/dzhpkjoqj/Fluidmaster/FLUIDMINST00101.pdf | 2026-11-21 | 같은 설명서 문제 해결 | Clean flapper and drain seat. If leak continues, change flapper or flush valve.
+  - 수위는 오버플로관 아래 | https://res.cloudinary.com/dzhpkjoqj/Fluidmaster/FLUIDMINST00101.pdf | 2026-11-21 | 같은 설명서 6단계 | WATER LEVEL (C) is set below top of Overflow Pipe
+  - 남은 물 빼기 | https://res.cloudinary.com/dzhpkjoqj/Fluidmaster/FLUIDMINST00101.pdf | 2026-11-21 | 같은 설명서 준비 단계 | Flush toilet and remove excess water from tank with sponge
+  - 손으로만 조이기 | https://res.cloudinary.com/dzhpkjoqj/Fluidmaster/FLUIDMINST00101.pdf | 2026-11-21 | 같은 설명서 3단계 | Hand-tighten only. DO NOT OVER TIGHTEN.
+  - 과도한 조임 경고 | https://res.cloudinary.com/dzhpkjoqj/Fluidmaster/FLUIDMINST00101.pdf | 2026-11-21 | 같은 설명서 3단계 | Over tightening may crack the fill valve or tank
+  - 부자가 닿지 않게 | https://res.cloudinary.com/dzhpkjoqj/Fluidmaster/FLUIDMINST00101.pdf | 2026-11-21 | 같은 설명서 3단계 | Make sure the float cup does not touch the tank walls
+  - 연결부 누수 시 너트 | https://res.cloudinary.com/dzhpkjoqj/Fluidmaster/FLUIDMINST00101.pdf | 2026-11-21 | 같은 설명서 4단계 | turn nut just enough to stop leaking
+  - 수위 낮추기 | https://res.cloudinary.com/dzhpkjoqj/Fluidmaster/FLUIDMINST00101.pdf | 2026-11-21 | 같은 설명서 5단계 | counter clockwise to lower water level
+  - C.L. 표시 1인치 | https://res.cloudinary.com/dzhpkjoqj/Fluidmaster/FLUIDMINST00101.pdf | 2026-11-21 | 같은 설명서 2단계(높이 맞추기) | MUST be positioned 1” above top of overflow pipe
   - 2,754건 / 2,046건 / 708건 / 34.6% | https://seoulboard.seoul.go.kr/comm/getFile?srvcId=BBSTY1&upperNo=470395&fileTy=ATTACH&fileNo=1&bbsNo=158 | 2026-11-21 | 서울시 보도자료(2026-11-15, 서울아리수본부) 첨부 HWP 본문: 2025~26 겨울 수도계량기 동파 | 전년 2,046건보다 708건(34.6%) 증가한 2,754건으로 집계됐다
   - 1,352건 / 49.1% | https://seoulboard.seoul.go.kr/comm/getFile?srvcId=BBSTY1&upperNo=470395&fileTy=ATTACH&fileNo=1&bbsNo=158 | 2026-11-21 | 같은 보도자료, 복도식 아파트 비중 | 1,352건(49.1%)이 복도식 아파트에서 발생해
   - 자연재해 동파 무상 교체 | https://seoulboard.seoul.go.kr/comm/getFile?srvcId=BBSTY1&upperNo=470395&fileTy=ATTACH&fileNo=1&bbsNo=158 | 2026-11-21 | 같은 보도자료, 계량기 교체 비용 | 한파 등 자연재해로 수도계량기가 동파된 경우에는 무상으로 교체를 지원한다
   - 관리 소홀 동파 비용 | https://seoulboard.seoul.go.kr/comm/getFile?srvcId=BBSTY1&upperNo=470395&fileTy=ATTACH&fileNo=1&bbsNo=158 | 2026-11-21 | 같은 보도자료 | 관리 소홀로 동파된 경우에는 사용자에게 계량기 대금과 교체비용이 부과될 수 있다
   - 서울 신고처 120 | https://seoulboard.seoul.go.kr/comm/getFile?srvcId=BBSTY1&upperNo=470395&fileTy=ATTACH&fileNo=1&bbsNo=158 | 2026-11-21 | 같은 보도자료, 신고처 | 120다산콜재단, 관할 수도사업소 또는 아리수 요금고객센터로 즉시 신고
-  - 물 안 나옴 = 계량기 확인 | https://news.seoul.go.kr/env/archives/504939 | 2026-11-20 | 서울시 2019-12-03 동파 안내 | 수돗물이 갑자기 나오지 않을 때에는 수도계량기 유리가 깨지거나 부풀어 올랐는지 확인하여
-  - 50℃ 이하 | https://news.seoul.go.kr/env/archives/565606 | 2026-11-20 | 서울시 2025-11-14 녹이기 수칙 | 언 계량기는 50℃ 이하의 열로 천천히 녹이는
-  - 지시부 깨짐 | https://news.seoul.go.kr/env/archives/565606 | 2026-11-20 | 서울시 2025-11-14 | 수도계량기의 지시부가 깨지거나 부풀어 오르는 등 동파가 의심되는 경우
-  - 화기 금지 | https://news.seoul.go.kr/env/archives/505700 | 2026-11-20 | 서울시 2020-02-19 동파 해빙 안내 | 화기(토치, 헤어드라이기 등)를 사용하면 화재가 발생할 수 있고
-  - 50도 이상 물 금지 | https://news.seoul.go.kr/env/archives/505700 | 2026-11-20 | 같은 안내 | 50도 이상 뜨거운 물을 사용할 경우 계량기 파손의 위험이 있으므로
-  - K-water 즉시 출동 | https://www.kwater.or.kr/cust/sub01/norm05Tab.do?s_mid=1154 | 2026-11-20 | K-water 지방상수도 서비스이행표준 | 물이 잘 안나오는 등 불편사항을 신고하시면 즉시(도서지역 제외) 현장에 출동하여
-  - 5만 원 | https://www.kca.go.kr/home/sub.do?menukey=4005&mode=view&no=1004542692 | 2026-11-21 | 사례: 한국소비자원 피해예방주의보 '청소·하수도위생 서비스, 현장 추가 비용 요구 주의해야'(보도자료 2026-07-15, 게시 2026-08-05) 캡처:kca-case | 5만 원 수준의 기본요금만 제시하고
+  - 물 안 나옴 = 계량기 확인 | https://news.seoul.go.kr/env/archives/504939 | 2026-11-21 | 서울시 2019-12-03 동파 안내 | 수돗물이 갑자기 나오지 않을 때에는 수도계량기 유리가 깨지거나 부풀어 올랐는지 확인하여
+  - 50℃ 이하 | https://news.seoul.go.kr/env/archives/565606 | 2026-11-21 | 서울시 2025-11-14 녹이기 수칙 | 언 계량기는 50℃ 이하의 열로 천천히 녹이는
+  - 지시부 깨짐 | https://news.seoul.go.kr/env/archives/565606 | 2026-11-21 | 서울시 2025-11-14 | 수도계량기의 지시부가 깨지거나 부풀어 오르는 등 동파가 의심되는 경우
+  - 화기 금지 | https://news.seoul.go.kr/env/archives/505700 | 2026-11-21 | 서울시 2020-02-19 동파 해빙 안내 | 화기(토치, 헤어드라이기 등)를 사용하면 화재가 발생할 수 있고
+  - 50도 이상 물 금지 | https://news.seoul.go.kr/env/archives/505700 | 2026-11-21 | 같은 안내 | 50도 이상 뜨거운 물을 사용할 경우 계량기 파손의 위험이 있으므로
+  - K-water 즉시 출동 | https://www.kwater.or.kr/cust/sub01/norm05Tab.do?s_mid=1154 | 2026-11-21 | K-water 지방상수도 서비스이행표준 | 물이 잘 안나오는 등 불편사항을 신고하시면 즉시(도서지역 제외) 현장에 출동하여
+  - 기본요금만 제시 후 추가 요구 | https://www.kca.go.kr/home/sub.do?menukey=4005&mode=view&no=1004542692 | 2026-11-21 | 사례: 한국소비자원 피해예방주의보 '청소·하수도위생 서비스, 현장 추가 비용 요구 주의해야'(보도자료 2026-07-15, 게시 2026-08-05) 캡처:kca-case | 5만 원 수준의 기본요금만 제시하고
+  - 5만 원 | https://www.kca.go.kr/home/sub.do?menukey=4005&mode=view&no=1004542692 | 2026-11-21 | 계산: 원문 표기 '5만 원'을 점검기가 원 단위로 읽으므로 원문 문구로 확인 | 5만 원 수준의 기본요금만 제시하고
   - 34.5% / 48건 | https://www.kca.go.kr/home/sub.do?menukey=4005&mode=view&no=1004542692 | 2026-11-21 | 같은 주의보, 하수도위생 서비스 피해 중 추가 비용 요구 비중 | 34.5%(48건)로 그 뒤를 이었다
   - 수십만 원 추가 | https://www.kca.go.kr/home/sub.do?menukey=4005&mode=view&no=1004542692 | 2026-11-21 | 같은 주의보 | 현장에서 수십만 원을 추가로 요구하는 사례가 많았다
-  - 부자 점검 | https://www.gangnam.go.kr/board/article/3841/view.do?mid=id01_0501 | 2026-11-20 | 강남구 안내(2019-12-05) 누수 원인 1 캡처:gn-check | 부력에 의해 부자가 떠오르고 물이 나오는 입구를 잘 막는지 확인
-  - 마개 점검 | https://www.gangnam.go.kr/board/article/3841/view.do?mid=id01_0501 | 2026-11-20 | 강남구 안내 누수 원인 2 | 레버를 작동시킨 후 잘 닫히는지 확인
-  - 수도요금 감면 제외 | https://www.gangnam.go.kr/board/article/3841/view.do?mid=id01_0501 | 2026-11-20 | 서울시 누수감면 제도 변경(2020-01-01 시행) | 그동안 감면되었던 양변기 누수에 따른 수도요금은 감면되지 않습니다.
-  - 40% | https://www.gangnam.go.kr/board/article/3841/view.do?mid=id01_0501 | 2026-11-20 | 양변기 누수가 전체 누수 건수에서 차지하는 비중 | 전체 누수 건수 중 40%에 해당되어
-  - 하수도 요금 감면 제외 | https://news.seoul.go.kr/env/archives/520951 | 2026-11-20 | 서울시 물재생계획과 안내 | 2023년 1월 1일부터 양변기 누수에 대해 하수도 요금 감면이 제외됩니다.
-  - 원룸 변기 누수 수도요금 분담 사례 | https://lawtalknews.co.kr/article/UM6TZCCZ1GHI | 2026-11-20 | 사례: 로톡뉴스 2019-07-19 보도(로톡 상담 사례 재구성, 원룸 월세 세입자) 캡처:lawtalk-case | 집(변기)의 하자로 인한 것인 만큼
-  - 100만 원 | https://lawtalknews.co.kr/article/UM6TZCCZ1GHI | 2026-11-20 | 계산: 기사 표기 '100만 원'을 점검기가 원 단위로 읽으므로 원문 문구로 확인 | 수도요금이 100만 원 나왔는데
-  - 반반 부담 제안 | https://lawtalknews.co.kr/article/UM6TZCCZ1GHI | 2026-11-20 | 같은 사례의 집주인 제안 | 반반씩 부담하자
-  - 민법 제623조 | https://www.law.go.kr/LSW/lsInfoR.do?lsiSeq=284415&efYd=20260317 | 2026-11-20 | 임대인의 의무 | 임대인은 목적물을 임차인에게 인도하고 계약존속중 그 사용, 수익에 필요한 상태를 유지하게 할 의무를 부담한다.
-  - 민법 제626조 | https://www.law.go.kr/LSW/lsInfoR.do?lsiSeq=284415&efYd=20260317 | 2026-11-20 | 필요비 상환청구 | 임차인이 임차물의 보존에 관한 필요비를 지출한 때에는 임대인에 대하여 그 상환을 청구할 수 있다.
-  - 민법 제634조 | https://www.law.go.kr/LSW/lsInfoR.do?lsiSeq=284415&efYd=20260317 | 2026-11-20 | 임차인의 통지의무 | 임차물의 수리를 요하거나
-  - 민법 제615조 | https://www.law.go.kr/LSW/lsInfoR.do?lsiSeq=284415&efYd=20260317 | 2026-11-20 | 원상회복의무 | 차주가 차용물을 반환하는 때에는 이를 원상에 회복하여야 한다.
-  - 민법 제654조 | https://www.law.go.kr/LSW/lsInfoR.do?lsiSeq=284415&efYd=20260317 | 2026-11-20 | 제615조(원상회복)를 임대차에 준용 | 규정은 임대차에 이를 준용한다
-  - 대법원 2010다89876 사소한 수선 | https://www.law.go.kr/LSW/precInfoP.do?precSeq=164196 | 2026-11-20 | 판결요지 [1] 전단 | 임차인이 별비용을 들이지 아니하고도 손쉽게 고칠 수 있을 정도의 사소한 것
-  - 대법원 2010다89876 임대인 수선의무 | https://www.law.go.kr/LSW/precInfoP.do?precSeq=164196 | 2026-11-20 | 판결요지 [1] 후단 | 사용·수익할 수 없는 상태로 될 정도의 것이라면 임대인은 수선의무를 부담한다
-  - 수도법 제14조① | https://www.law.go.kr/LSW/lsInfoR.do?lsiSeq=284311&efYd=20260918 | 2026-11-20 | 물에 접촉하는 수도용 자재·제품 인증 | 위생안전기준에 맞는지에 대하여 인증을 받아야 한다
-  - 수도법 제14조② | https://www.law.go.kr/LSW/lsInfoR.do?lsiSeq=284311&efYd=20260918 | 2026-11-20 | 미인증 제품 판매 금지 | 수도용 자재나 제품을 제조ㆍ수입ㆍ공급ㆍ판매하여서는 아니 된다
-  - 수도법 제14조④ | https://www.law.go.kr/LSW/lsInfoR.do?lsiSeq=284311&efYd=20260918 | 2026-11-20 | 인증 표시 의무 | 인증을 받은 사실을 수도용 자재나 제품 및 그 포장에 표시하여야 한다
+  - 부자 점검 | https://www.gangnam.go.kr/board/article/3841/view.do?mid=id01_0501 | 2026-11-21 | 강남구 안내(2019-12-05) 누수 원인 1 캡처:gn-check | 부력에 의해 부자가 떠오르고 물이 나오는 입구를 잘 막는지 확인
+  - 마개 점검 | https://www.gangnam.go.kr/board/article/3841/view.do?mid=id01_0501 | 2026-11-21 | 강남구 안내 누수 원인 2 | 레버를 작동시킨 후 잘 닫히는지 확인
+  - 수도요금 감면 제외 | https://www.gangnam.go.kr/board/article/3841/view.do?mid=id01_0501 | 2026-11-21 | 서울시 누수감면 제도 변경(2020-01-01 시행) | 그동안 감면되었던 양변기 누수에 따른 수도요금은 감면되지 않습니다.
+  - 40% | https://www.gangnam.go.kr/board/article/3841/view.do?mid=id01_0501 | 2026-11-21 | 양변기 누수가 전체 누수 건수에서 차지하는 비중 | 전체 누수 건수 중 40%에 해당되어
+  - 하수도 요금 감면 제외 | https://news.seoul.go.kr/env/archives/520951 | 2026-11-21 | 서울시 물재생계획과 안내 | 2023년 1월 1일부터 양변기 누수에 대해 하수도 요금 감면이 제외됩니다.
+  - 원룸 변기 누수 수도요금 분담 사례 | https://lawtalknews.co.kr/article/UM6TZCCZ1GHI | 2026-11-21 | 사례: 로톡뉴스 2019-07-19 보도(로톡 상담 사례 재구성, 원룸 월세 세입자) 캡처:lawtalk-case | 집(변기)의 하자로 인한 것인 만큼
+  - 100만 원 | https://lawtalknews.co.kr/article/UM6TZCCZ1GHI | 2026-11-21 | 계산: 기사 표기 '100만 원'을 점검기가 원 단위로 읽으므로 원문 문구로 확인 | 수도요금이 100만 원 나왔는데
+  - 반반 부담 제안 | https://lawtalknews.co.kr/article/UM6TZCCZ1GHI | 2026-11-21 | 같은 사례의 집주인 제안 | 반반씩 부담하자
+  - 민법 제623조 | https://www.law.go.kr/LSW/lsInfoR.do?lsiSeq=284415&efYd=20260317 | 2026-11-21 | 임대인의 의무 | 임대인은 목적물을 임차인에게 인도하고 계약존속중 그 사용, 수익에 필요한 상태를 유지하게 할 의무를 부담한다.
+  - 민법 제626조 | https://www.law.go.kr/LSW/lsInfoR.do?lsiSeq=284415&efYd=20260317 | 2026-11-21 | 필요비 상환청구 | 임차인이 임차물의 보존에 관한 필요비를 지출한 때에는 임대인에 대하여 그 상환을 청구할 수 있다.
+  - 민법 제634조 | https://www.law.go.kr/LSW/lsInfoR.do?lsiSeq=284415&efYd=20260317 | 2026-11-21 | 임차인의 통지의무 | 임차물의 수리를 요하거나
+  - 민법 제615조 | https://www.law.go.kr/LSW/lsInfoR.do?lsiSeq=284415&efYd=20260317 | 2026-11-21 | 원상회복의무 | 차주가 차용물을 반환하는 때에는 이를 원상에 회복하여야 한다.
+  - 민법 제654조 | https://www.law.go.kr/LSW/lsInfoR.do?lsiSeq=284415&efYd=20260317 | 2026-11-21 | 제615조(원상회복)를 임대차에 준용 | 규정은 임대차에 이를 준용한다
+  - 대법원 2010다89876 사소한 수선 | https://www.law.go.kr/LSW/precInfoP.do?precSeq=164196 | 2026-11-21 | 판결요지 [1] 전단 | 임차인이 별비용을 들이지 아니하고도 손쉽게 고칠 수 있을 정도의 사소한 것
+  - 대법원 2010다89876 임대인 수선의무 | https://www.law.go.kr/LSW/precInfoP.do?precSeq=164196 | 2026-11-21 | 판결요지 [1] 후단 | 사용·수익할 수 없는 상태로 될 정도의 것이라면 임대인은 수선의무를 부담한다
+  - 수도법 제14조① | https://www.law.go.kr/LSW/lsInfoR.do?lsiSeq=284311&efYd=20260918 | 2026-11-21 | 물에 접촉하는 수도용 자재·제품 인증 | 위생안전기준에 맞는지에 대하여 인증을 받아야 한다
+  - 수도법 제14조② | https://www.law.go.kr/LSW/lsInfoR.do?lsiSeq=284311&efYd=20260918 | 2026-11-21 | 미인증 제품 판매 금지 | 수도용 자재나 제품을 제조ㆍ수입ㆍ공급ㆍ판매하여서는 아니 된다
+  - 수도법 제14조④ | https://www.law.go.kr/LSW/lsInfoR.do?lsiSeq=284311&efYd=20260918 | 2026-11-21 | 인증 표시 의무 | 인증을 받은 사실을 수도용 자재나 제품 및 그 포장에 표시하여야 한다
 ---
 
-# 변기 물이 안 차요? 필밸브면 직접 2,450원부터, 기사는 6만 원부터
+# 변기 물이 안 차요? 필밸브면 직접 2천 원대부터, 기사는 6만 원부터
 
 네이버 검색어를 살펴보니 '변기 물이 안 차요'를 정말 많이 궁금해하셨습니다.
-원인이 물탱크 속 필밸브(볼탑)라면 직접 바꿀 때 부품값은 2,450원부터이고 동네 기사에게 맡기면 게시가 기준 6만 원부터입니다.
+원인이 물탱크 속 필밸브(볼탑)라면 직접 바꿀 때 부품값은 2천 원대(다나와 최저가 2,390원, 배송비 별도)부터이고 동네 기사에게 맡기면 게시가 기준 6만 원부터입니다.
 
 ![집수리 검색어 23개의 네이버 월간 검색량(2026년 11월 20일 조회). '변기 물이 안 차요'가 월 6,390회로 '변기 필밸브 교체' 2,010회의 3배](../diagrams/2026-12-toilet-fill-valve/search-demand.png)
 
@@ -162,7 +164,7 @@ claims:
 | 먼저 볼 것 | 세면대 물이 나오는지, 앵글밸브가 끝까지 열렸는지, 겨울이면 계량기 동파 |
 | 난이도 | 쉬움: 앵글밸브를 잠그고 탱크 안 부품 하나를 바꾸는 일 |
 | 시간 | 제조사가 밝힌 기준 없음 |
-| 직접 하면 | 필밸브 투피스 2,450~7,460원, 원피스 17,400~33,750원(다나와 최저가, 배송비 별도) |
+| 직접 하면 | 필밸브 투피스 2,390~7,460원, 원피스 17,400~33,750원(다나와 최저가, 배송비 별도) |
 | 기사에게 맡기면 | 동네업체 게시가 투피스 6만 원부터, 출장비를 따로 받으면 100,000원부터. 한샘 AS는 방문점검비 50,000원 + 기술료 + 자재비 |
 | 등급 | 초록(세입자는 노랑): 세입자는 집주인에게 먼저 알리고 떼어 낸 부품을 보관 |
 
@@ -307,7 +309,7 @@ Fluidmaster 설명서는 필밸브가 저절로 켜졌다 꺼지면 "This indica
 | 아메리칸스탠다드 | 다나와 검색 상품 32,500원(C603700Z) | 제품 설명서·보증서의 고객센터 번호로 문의 |
 | 한샘 | 한샘 양변기 부속품 WTG300 15,300원(구성 미표기) | 1588-0900, 1년. 방문점검비 50,000원(휴일·야간 60,000원) + 기술료 + 자재비 |
 | 콜러 | 모델명으로 A/S에 문의 | A/S 070-4067-5455 |
-| 와토스(범용) | WP20 2,450원, 높이조절 WP250 7,040원, 원피스 WP21 19,920원 | 변기 제조사 AS 대상이 아님 |
+| 와토스(범용) | WP20 2,390원, 높이조절 WP250 7,040원, 원피스 WP21 19,920원 | 변기 제조사 AS 대상이 아님 |
 
 출처: 다나와 상품 정보, 대림바스·계림·이누스·한샘·콜러 고객센터 안내(2026년 11월 20일 기준). 다나와 값은 최저가이고 배송비는 별도입니다.
 
@@ -329,7 +331,7 @@ Fluidmaster 설명서는 필밸브가 저절로 켜졌다 꺼지면 "This indica
 한국경제(2025년 8월 29일)는 와토스코리아를 "국내 위생도기 부품 시장의 50% 정도를 차지하고 있는 와토스코리아"로 소개했습니다.
 
 다나와 리뷰 수도 범용 쪽이 많습니다.
-와토스 WP20은 평점 4.6점에 리뷰 2,555, 대림바스 투피스 볼탑은 4.6점에 리뷰 289입니다.
+와토스 WP20은 평점 4.6점에 리뷰 2,556, 대림바스 투피스 볼탑은 4.6점에 리뷰 289입니다.
 
 동네 수리업체도 범용 부품을 쓰는 곳이 있습니다.
 서울 강남의 한 당근 업체는 투피스 부속 교체 항목에 "와토스/자재비 포함"이라고 적어 두었습니다.
@@ -344,7 +346,7 @@ Fluidmaster 설명서는 필밸브가 저절로 켜졌다 꺼지면 "This indica
 
 | 준비물 | 쓰는 곳 | 구하는 방법 |
 |---|---|---|
-| 필밸브 | 변기 모델에 맞는 브랜드 정품 또는 범용(투피스 2,450~7,460원, 원피스 17,400~33,750원) | 살 것(제조사 부품몰·대리점·다나와 등) |
+| 필밸브 | 변기 모델에 맞는 브랜드 정품 또는 범용(투피스 2,390~7,460원, 원피스 17,400~33,750원) | 살 것(제조사 부품몰·대리점·다나와 등) |
 | 몽키스패너 | 손으로 풀리지 않는 급수호스 너트와 고정 너트 | 집에 있음, 다이소로 충분(멍키스패너 200, 3,000원), 없으면 이웃에게 빌릴 것 |
 | 스펀지·양동이·수건 | 탱크 바닥에 남은 물 떠내기, 양동이 시험, 바닥 보호 | 집에 있음 |
 | 고무장갑 | 탱크 물에 손을 넣을 때 | 집에 있음 |
@@ -403,11 +405,11 @@ Fluidmaster 설명서 기준으로 멈춘 수위는 "WATER LEVEL (C) is set belo
 
 | 항목 | 직접 | 기사·제조사 AS |
 |---|---|---|
-| 필밸브(투피스) | 범용 2,450원부터, 대림바스 7,460원부터 | 업체 게시가에 자재비를 포함한 곳이 있음 |
+| 필밸브(투피스) | 범용 2,390원부터, 대림바스 7,460원부터 | 업체 게시가에 자재비를 포함한 곳이 있음 |
 | 필밸브(원피스) | 17,400~33,750원 | 위와 같음 |
 | 공구 | 집에 있으면 추가 비용 없음, 다이소 멍키스패너 3,000원 | 해당 없음 |
 | 출장비·공임 | 없음 | 동네업체 투피스 6만 원부터, 출장비 30,000원을 따로 받는 곳은 70,000원 + 30,000원. 한샘은 방문점검비 50,000원 + 기술료 + 자재비 |
-| 합계 | 투피스 2,450~10,460원(배송비 별도) | 투피스 6만~100,000원(게시 시작가 기준) |
+| 합계 | 투피스 2,390~10,460원(배송비 별도) | 투피스 6만~100,000원(게시 시작가 기준) |
 
 출처: 다나와 상품 정보, 다이소몰, 당근 동네업체 게시가, 한샘 서비스센터 요금 안내(2026년 11월 20일 기준). 합계는 수리기록 계산입니다.
 
@@ -422,7 +424,7 @@ Fluidmaster 설명서 기준으로 멈춘 수위는 "WATER LEVEL (C) is set belo
 
 ## 직접 바꾼 사람들의 후기는 어땠습니까?
 
-다나와에 모인 쇼핑몰 리뷰 평점은 와토스 WP20 4.6점(리뷰 2,555), 와토스 WP21 4.5점(리뷰 669), 대림바스 투피스 볼탑 4.6점(리뷰 289)입니다.
+다나와에 모인 쇼핑몰 리뷰 평점은 와토스 WP20 4.6점(리뷰 2,556), 와토스 WP21 4.5점(리뷰 669), 대림바스 투피스 볼탑 4.6점(리뷰 289)입니다.
 평점은 판매처 리뷰를 모은 값이라 설치 난이도만 평가한 것은 아닙니다.
 
 리뷰에는 이 글의 증상이 그대로 나옵니다.
